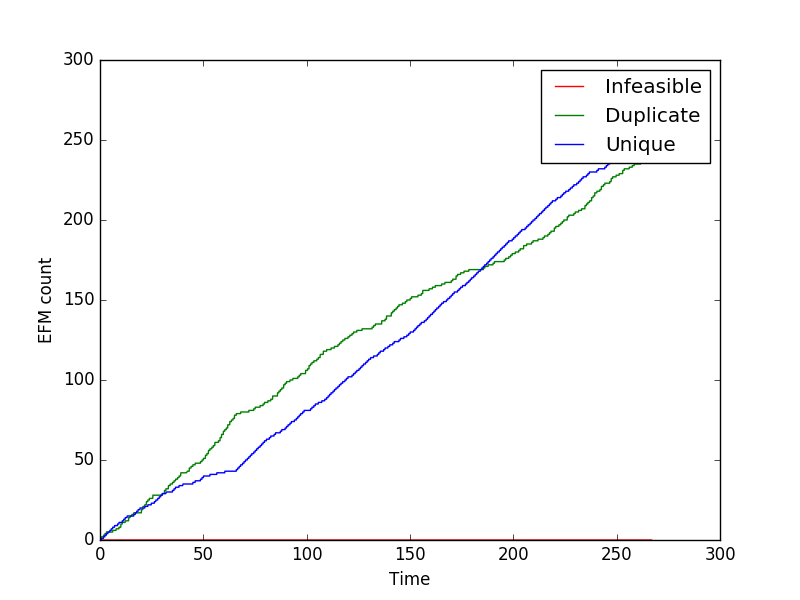
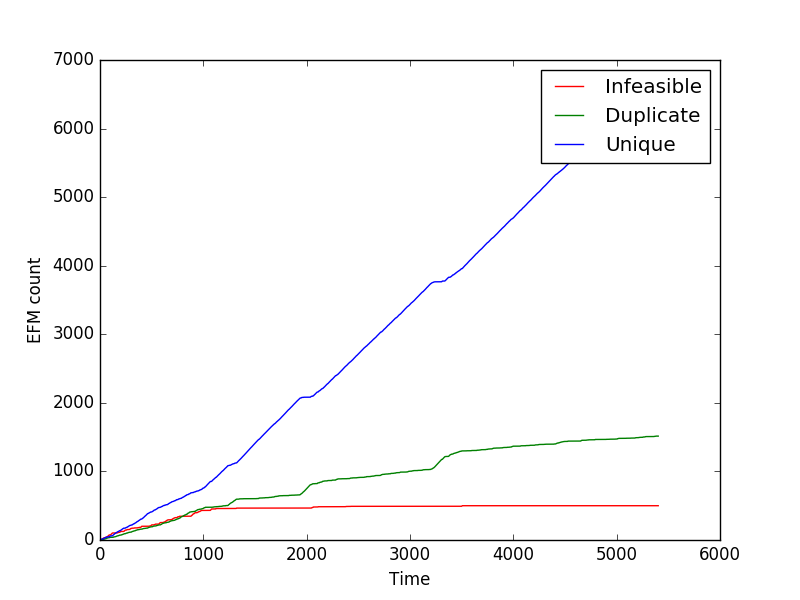
FluxGenerator now dumps some things to try to file when toTry is big

diff --git a/src/generator.py b/src/generator.py
@@ -7,14 +7,14 @@ Created on Jan 12, 2017
 from __future__ import print_function
 from src import models
 import time
-from msvcrt import getch, putch
+from msvcrt import getch
 import json
 import datetime
 import threading
-import cobra
 
 class FluxGenerator:
     def __init__(self, model, startReaction, include, initialExclude):
+        self.startDate = datetime.datetime.now()
         self.model = model
         self.reactions = model.reactions
         self.startReaction = startReaction
@@ -32,14 +32,20 @@ class FluxGenerator:
         self._manualStop = True
         self._stopReason = None
         self._countDumpFile = None
+        self._toTryDumpPath = ("dumps/" + self.startDate.strftime("%Y-%m-%d %H%M%S")
+                + (" {model!s} {startReaction!s} toTry dump.json"
+                                    .format(model = self.model,
+                                            startReaction = self.startReaction)))
         self.alpha = 2.8
         self.beta = 2.9
         self.gamma = 4
+        self.numberOfDumps = 0
+        self._dumpThreshold = 100000
         
         self._reset()
         
     def _reset(self):
-         # Output
+        # Output
         self.infeasibleCount = 0 # Count of infeasible EFMs tried
         self.duplicateCount = 0 # Count of duplicate EFMs generated
         self.timeTaken = 0
@@ -190,11 +196,12 @@ Generated:
         
     def printProgress(self):
         if (not self._verboseOutput and not self._useManual):
-            s = ("Time: {:6.2f} Unique: {:7} Duplicate: {:7} Infeasible: {:7}"
+            s = ("Time: {:6.2f} Unique: {:7} Duplicate: {:7} Infeasible: {:7} toTry: {:7}"
                     .format(time.time() - self._startTime,
                     len(self.uniqueEFMs),
                     self.duplicateCount,
-                    self.infeasibleCount))
+                    self.infeasibleCount,
+                    self.toTryNum))
             print(s, end="\r")
             
     def pickNext(self):
@@ -205,30 +212,26 @@ Generated:
                 return self.reacScores[nextReaction]
             else:
                 # Arbitrary default
-                return 20
+                return 1
         
         # Sort all the next possible reactions by score
-        nextReacs = sorted(self.toTry.keys(), key = lambda k: getScore(k))
-        # Only keep those that actually have exclude sets left to try
-        nextReacs = [nr for nr in nextReacs if len(self.toTry[nr]) > 0]
+        nextReacs = sorted(self.toTry.keys(), key = lambda k: getScore(k), reverse=True)
         i = 0
         # Find the next exclude set for this reaction that has not been tried
         while self.toTryNum > 0:
-            while len(self.toTry[nextReacs[i]]) == 0:
-                # Find first non empty
-                i += 1
-                if i == len(self.toTry):
-                    break
-            if i == len(self.toTry):
-                assert self.toTryNum == 0
-                break
-            excludeSets = self.toTry[nextReacs[i]]
+            nr = nextReacs[i]
+            excludeSets = self.toTry[nr]
+            assert len(excludeSets) > 0
             es = excludeSets[0]
-            excludeSets = self.toTry[nextReacs[i]] = excludeSets[1:]
+            excludeSets = self.toTry[nr] = excludeSets[1:]
             self.toTryNum -= 1
-            if es not in self.testedExclusions:
-                return nextReacs[i], es
+            # Remove this key if no exclude sets left
+            if len(self.toTry[nr]) == 0:
+                self.toTry.pop(nr)
+                i += 1
             
+            if es not in self.testedExclusions:
+                return nr, es
                         
     def addToTryList(self, reaction, exclude):
         if reaction not in self.toTry:
@@ -247,6 +250,9 @@ Generated:
         dc = self.reacCounts[nextReaction]["d"]
         ic = self.reacCounts[nextReaction]["i"]
         
+        if (uc+dc+ic) < 4:
+            return 1
+        
         return float(uc+1)**self.alpha / (dc*self.gamma +ic+1)**self.beta
         
     def dumpCountsToFile(self, fileName=None):
@@ -254,7 +260,7 @@ Generated:
         
         Returns the name of the file so it can be opened later"""
         if fileName is None:
-            date = datetime.datetime.now().strftime("%Y-%m-%d %H%M%S")
+            date = self.startDate.strftime("%Y-%m-%d %H%M%S")
             fileName = date + " {model!s} {startReaction!s} counts.csv".format(model = self.model,
                                                                     startReaction = self.startReaction)
         path = "dumps/" + fileName
@@ -271,7 +277,7 @@ Generated:
         genThread.start()
         a = None
         # Break loop if the escape key is pressed
-        if self._manualStop:
+        if self._manualStop and not self._useManual:
             while genThread.isAlive():
                 a = getch()
                 if ord(a) == 27: # Escape key
@@ -279,7 +285,7 @@ Generated:
                     break
         
         genThread.join()
-        print("                                                      ", end="\r")
+        print(" "*80, end="\r")
         
     def _genAll(self):
             
@@ -312,6 +318,8 @@ Generated:
             self._waitTime += time.time() - startWait
         
         def addCount(name, count):
+            if name in self.include:
+                return
             if name not in self.reacCounts:
                 self.reacCounts[name] = {}
                 self.reacCounts[name]["d"] = 0
@@ -359,6 +367,42 @@ Generated:
             # Process this result
             if unique or not self._removeDuplicates:
                 genNextExcludeSets(exclude, flux)
+                
+            if self.toTryNum > 1000000:
+                dumpToTry()
+                pass
+                
+        def dumpToTry():
+            """Dumps 1/2 of the toTry dict to disk"""
+            oldToTryNum = self.toTryNum
+            # Find all candidate keys to dump
+            badKeys = [k for k in self.toTry.keys() if self.score(k) < 1]
+            badKeys = sorted(badKeys, key = lambda k: self.score(k))
+            toDump = {}
+            
+            for bk in badKeys:
+                es = self.toTry[bk]
+                if self.toTryNum - len(es) < oldToTryNum/2:
+                    # Resulting dict would be too short
+                    break
+                # Move from toTry to toDump
+                toDump[bk] = [list(e) for e in es]
+                self.toTryNum -= len(es)
+                del self.toTry[bk]
+                del es
+                
+            self._dumpThreshold = self.toTryNum + oldToTryNum/2
+            
+                
+            print("\nDumped {} keys".format(oldToTryNum - self.toTryNum))
+            print("New threshold {}".format(self._dumpThreshold))
+                
+            s = json.dumps(toDump)
+            with open(self._toTryDumpPath, "a") as f:
+                f.write(s)
+                f.write("\n")
+                
+            self.numberOfDumps += 1
                         
         # Set up variables
         if self._countDumpFile is not None and self._countDumpFile.closed:
@@ -389,6 +433,7 @@ Generated:
             toTry = self.pickNext()
             assert toTry is not None
             (nextReaction, nexclude) = toTry
+            feedback("Trying {}".format(toTry))
             flux = findSolution(nexclude)
             processResult(flux, nextReaction, nexclude)
             
@@ -400,17 +445,27 @@ Generated:
                     self.stop("User input")
                     break
                 if userInput == "e":
-                    self.output(self.efmsGenerated)
+                    self.output(self.uniqueEFMs)
                 if userInput == "c":
-                    self.output("Generated" + str(len(self.efmsGenerated)))
-                    self.output("Generated" + str(self.duplicateCount) + "duplicate EFMs") 
-                    self.output("Generated" + str(self.infeasibleCount) + "infeasible EFMs")
+                    for rs in self.reacScores:
+                        rc = "None"
+                        if rs in self.reacCounts:
+                            rc = self.reacCounts[rs]
+                        es = 0
+                        if rs in self.toTry:
+                            es = len(self.toTry[rs])
+                        self.output("""{reaction}
+    Reac counts: {counts}
+    Score: {score}
+    Exclude sets to try: {es}""".format(reaction=rs,
+                                         counts = rc,
+                                         score = self.score(rs),
+                                         es = es))
                 self._waitTime += time.time() - startWait
                 
             # Dump counts if necessary
             if self._countDumpFile is not None:
-                self._countDumpFile.write("{t},{tc},{ic},{dc},{uc}\n".format(t=self.getTimeDelta(),
-                                                     tc=len(self.efmsGenerated),
+                self._countDumpFile.write("{t},{ic},{dc},{uc}\n".format(t=self.getTimeDelta(),
                                                      ic=self.infeasibleCount,
                                                      dc=self.duplicateCount,
                                                      uc=len(self.uniqueEFMs)))
@@ -418,7 +473,6 @@ Generated:
                 
         self.timeTaken = self.getTimeDelta()
         self.printResults()
-        putch("\n")
         if self._countDumpFile is not None:
             self._countDumpFile.close()
         

diff --git a/test/textbook/textbookCountsAgainstTime.py b/test/textbook/textbookCountsAgainstTime.py
@@ -5,16 +5,16 @@ from src import models, emailer
 
 # Generate some EFMs
 model = cobra.test.create_test_model("textbook")
-startReaction = model.reactions.get_by_id("EX_glc__D_e")
-include = {startReaction.id: models.REVERSE}
+startReaction = model.reactions.get_by_id("Biomass_Ecoli_core")
+include = {startReaction.id: models.FORWARD}
 initialExclude = []
 fg = FluxGenerator(model, startReaction, include, initialExclude)
 countsPath = fg.dumpCountsToFile()
-fg.disableManualStop()
-fg.setMaxCount(581)
-fg.alpha = 6.4
-fg.beta = 6.6
-fg.gamma = 10
+#fg.disableManualStop()
+#fg.setMaxCount(1000)
+fg.alpha = 2.1
+fg.beta = 2.2
+fg.gamma = 2
 fg.removeDuplicates()
 
 fg.genAll()
@@ -32,12 +32,11 @@ with open(countsPath, "r") as countsFile:
     # Parse files
     for line in countsFile:
         parts = line.split(",")
-        if len(parts) >= 5:
+        if len(parts) >= 4:
             times.append(parts[0])
-            # parts[1] shows total number generated (dc+uc)
-            icounts.append(parts[2])
-            dcounts.append(parts[3])
-            ucounts.append(parts[4])
+            icounts.append(parts[1])
+            dcounts.append(parts[2])
+            ucounts.append(parts[3])
      
 plt.clf()
 ip, = plt.plot(times, icounts, label="Infeasible", color='red')

diff --git a/test/fullModelCountsAgainstTime.py b/test/fullModelCountsAgainstTime.py
@@ -23,17 +23,19 @@ initialExclude = []
 fg = FluxGenerator(model, startReaction, include, initialExclude)
 #fg.useAutoStop(ratio=2)
 #fg.setMaxTime(3600)
-fg.disableManualStop()
-fg.setMaxCount(500)
+#fg.verboseOutput()
+#fg.useManualInput()
+#fg.disableManualStop()
+#fg.setMaxCount(500)
 fg.removeDuplicates()
 countsPath = fg.dumpCountsToFile()
-fg.alpha = 6.4
-fg.beta = 6.6
-fg.gamma = 10
+fg.alpha = 2.1
+fg.beta = 2.2
+fg.gamma = 2
 
 fg.genAll()
 
-if len(fg.efmsGenerated) > 1:
+if len(fg.uniqueEFMs) > 1:
     body = fg.getConfig() + "\n\n---Results---\n" + fg.getResults()
     
     times = []
@@ -48,10 +50,9 @@ if len(fg.efmsGenerated) > 1:
         for line in countsFile:
             parts = line.split(",")
             times.append(parts[0])
-            # parts[1] shows total number generated (dc+uc)
-            icounts.append(parts[2])
-            dcounts.append(parts[3])
-            ucounts.append(parts[4])
+            icounts.append(parts[1])
+            dcounts.append(parts[2])
+            ucounts.append(parts[3])
         
     plt.clf()
     ip, = plt.plot(times, icounts, label="Infeasible", color='red')
